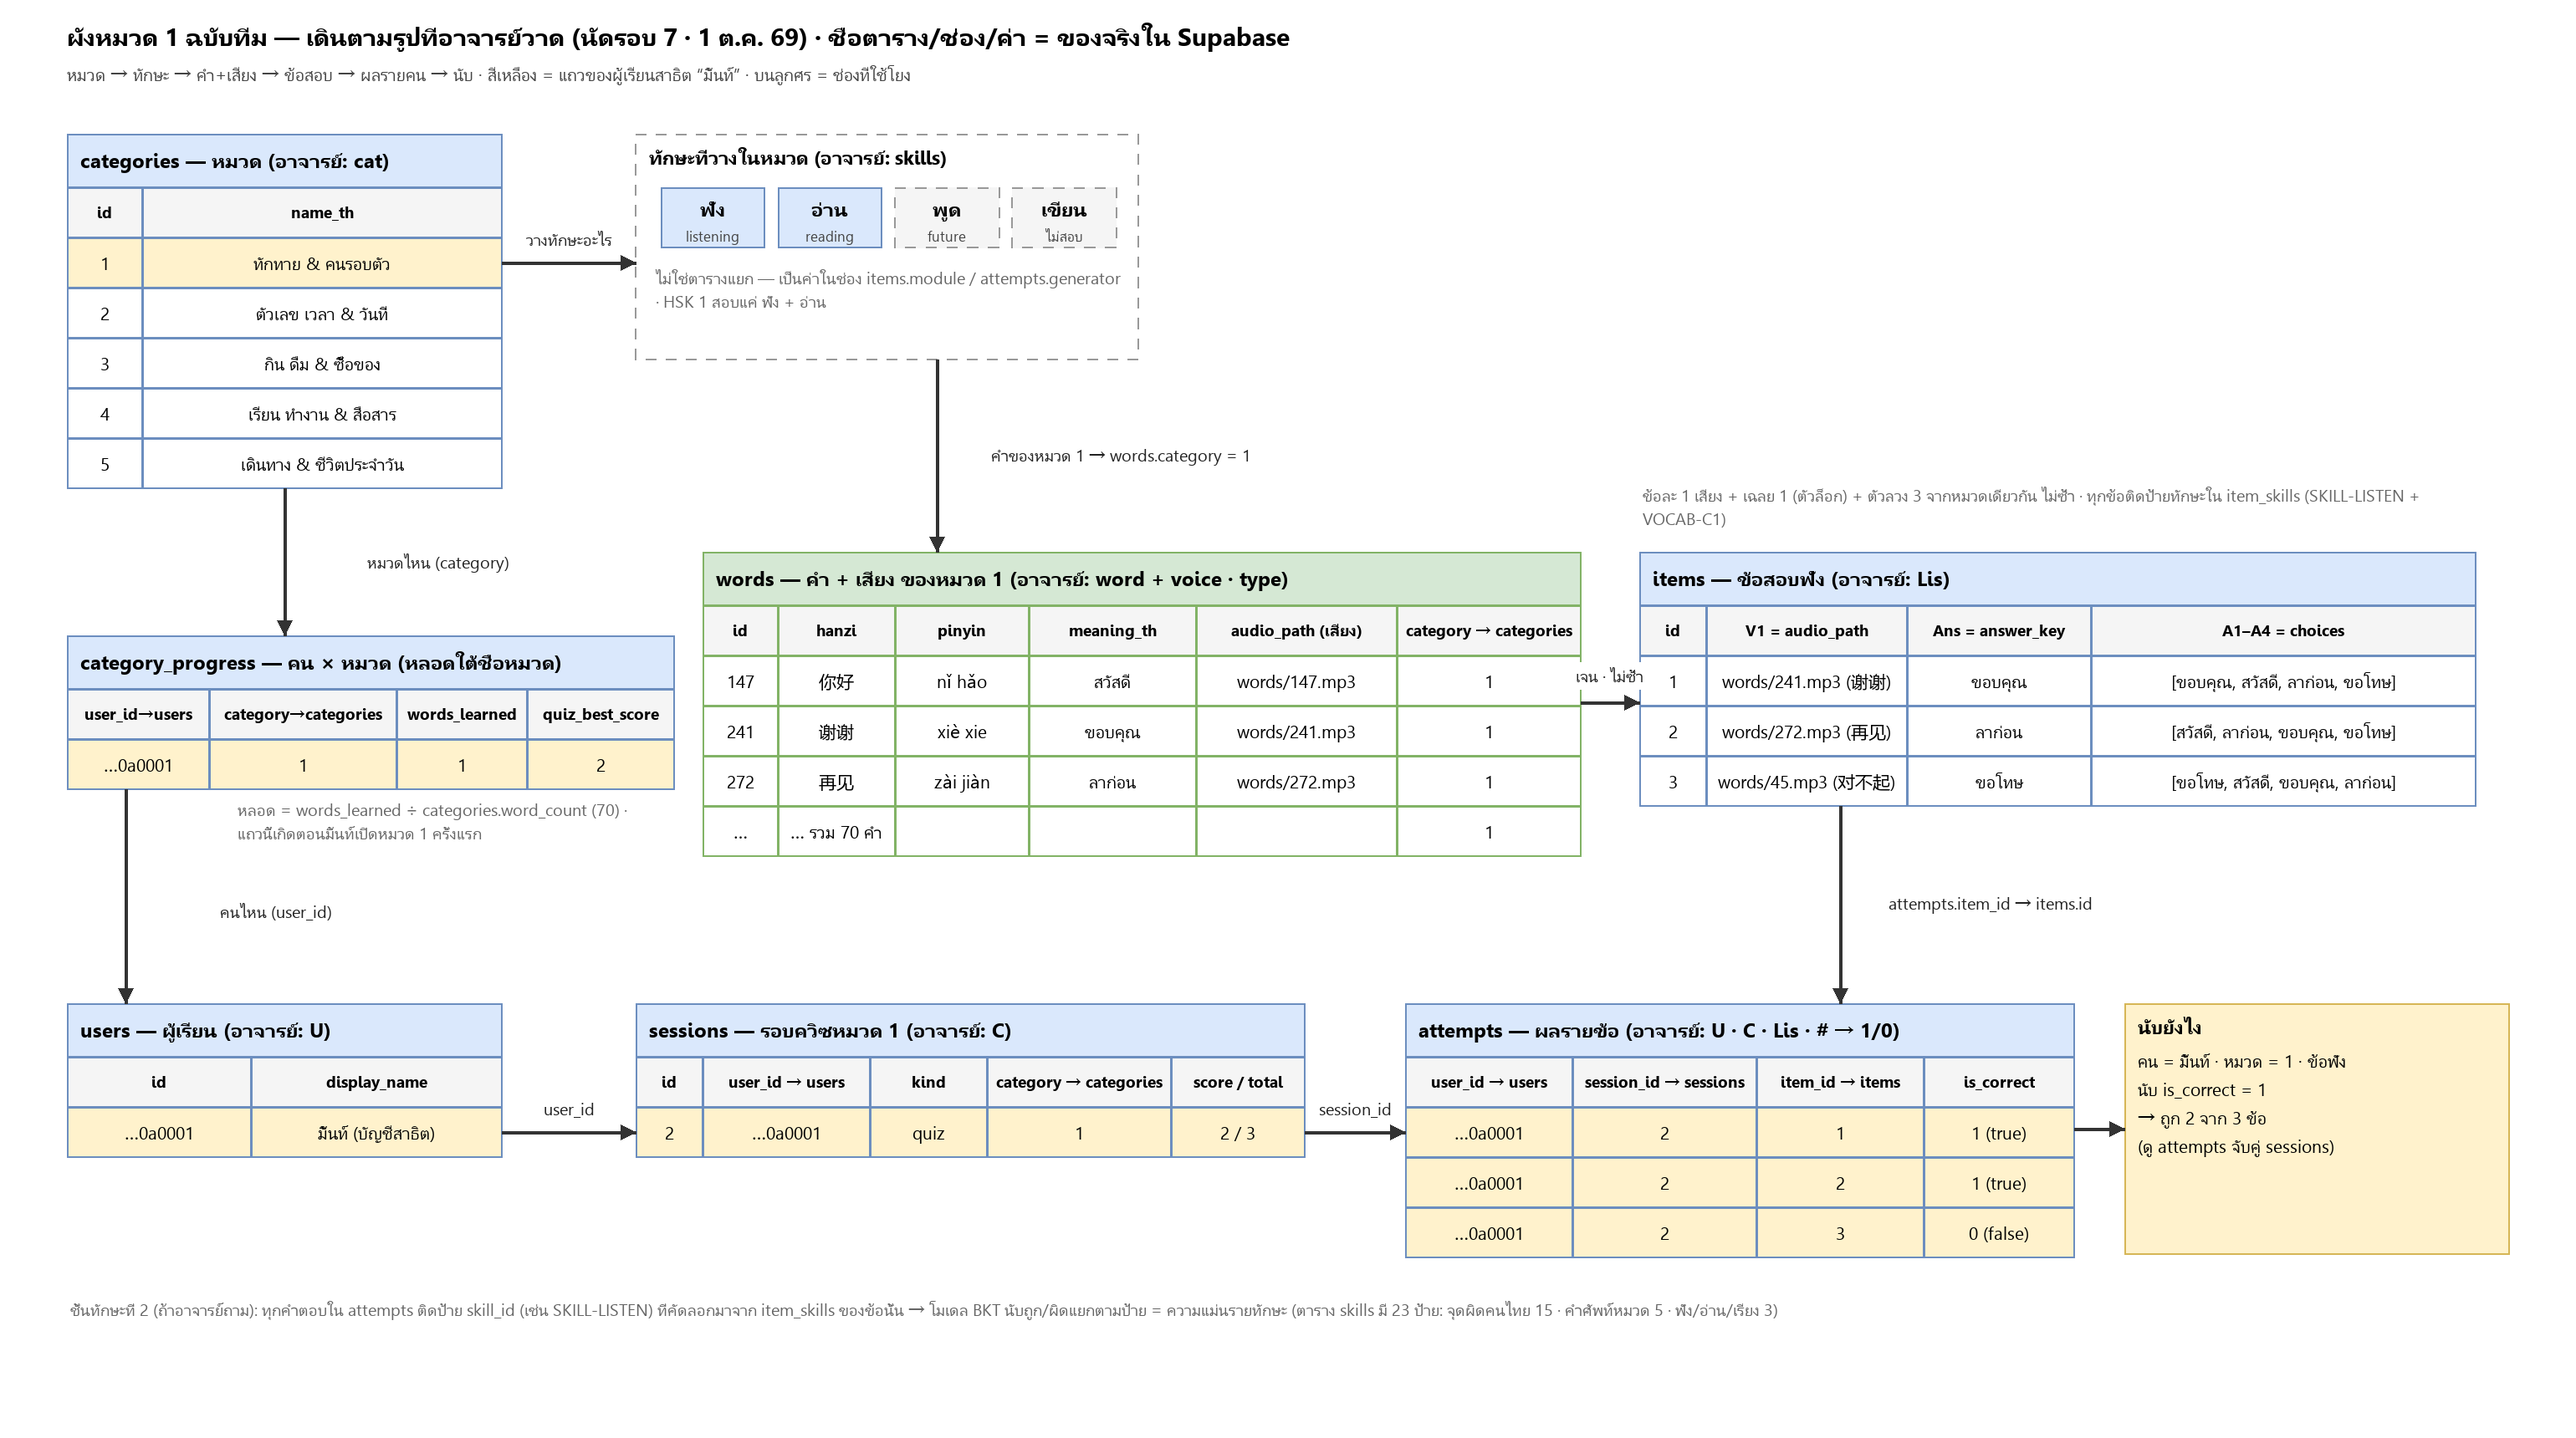
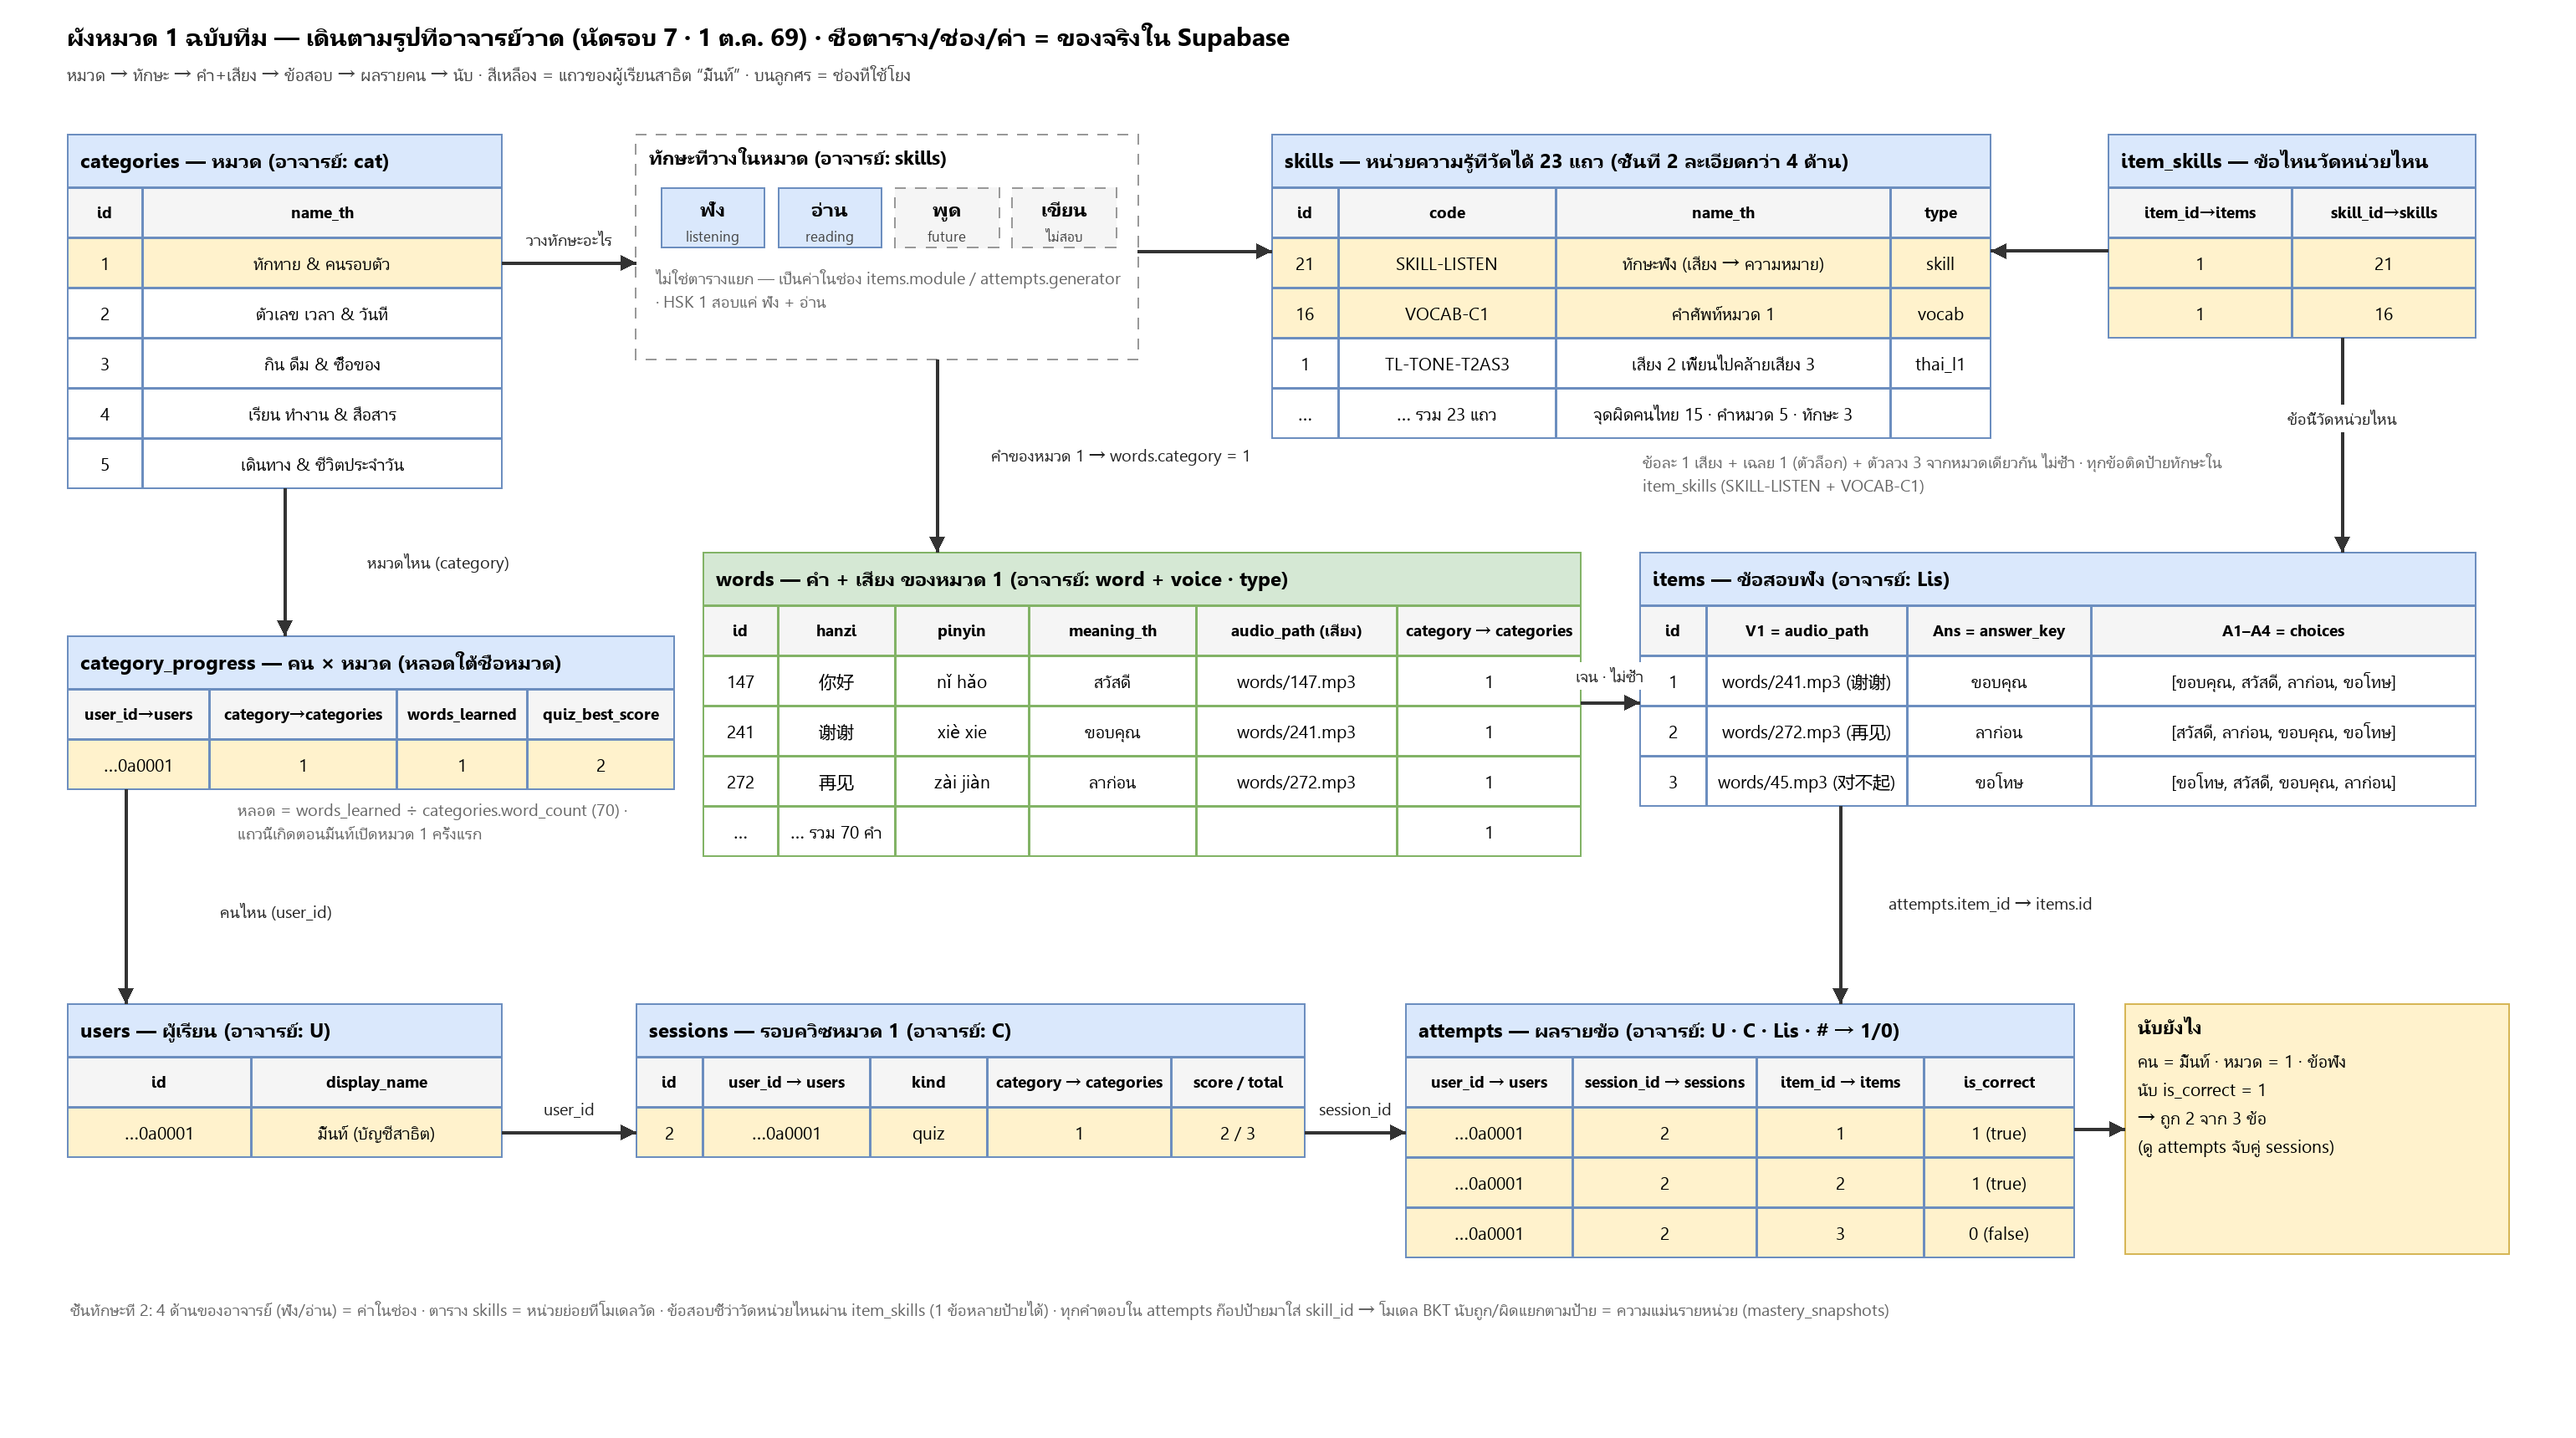
ผังหมวด 1 ตามรูปอาจารย์: เพิ่มชั้นทักษะที่ 2 (skills 23 + item_skills) ข้างกล่อง 4 ด้าน พร้อมลูกศรไป items · vault ซ้อมป้าย 2

diff --git a/scripts/gen_cat1_sketch.py b/scripts/gen_cat1_sketch.py
@@ -36,6 +36,16 @@ box("m_read",   465, 112, 62, 36, ["อ่าน", "reading"], fill=BLUE[0], str
 box("m_speak",  535, 112, 62, 36, ["พูด", "future"], fill=GREY, dashed=True)
 box("m_write",  605, 112, 62, 36, ["เขียน", "ไม่สอบ"], fill=GREY, dashed=True)
 note("skills_note", 390, 158, 282, 52, "ไม่ใช่ตารางแยก — เป็นค่าในช่อง items.module / attempts.generator · HSK 1 สอบแค่ ฟัง + อ่าน")
+# ---------- ชั้นทักษะที่ 2 (16 ต.ค.): skills = รายชื่อหน่วยที่วัดได้ 23 ตัว · item_skills = ข้อไหนวัดหน่วยไหน ----------
+table("skills_tbl", 760, 80, "skills — หน่วยความรู้ที่วัดได้ 23 แถว (ชั้นที่ 2 ละเอียดกว่า 4 ด้าน)",
+      [("id", 40), ("code", 130), ("name_th", 200), ("type", 60)],
+      [[21, "SKILL-LISTEN", "ทักษะฟัง (เสียง → ความหมาย)", "skill"], [16, "VOCAB-C1", "คำศัพท์หมวด 1", "vocab"],
+       [1, "TL-TONE-T2AS3", "เสียง 2 เพี้ยนไปคล้ายเสียง 3", "thai_l1"], ["…", "… รวม 23 แถว", "จุดผิดคนไทย 15 · คำหมวด 5 · ทักษะ 3", ""]], BLUE, hl=(0, 1))
+table("item_skills", 1260, 80, "item_skills — ข้อไหนวัดหน่วยไหน",
+      [("item_id→items", 110), ("skill_id→skills", 110)], [[1, 21], [1, 16]], BLUE, hl=(0, 1))
+edge("e_chips_skills", [(680, 150), (760, 150)], None, None)
+edge("e_is_skills", [(1260, 150), (1190, 150)], None, None)
+edge("e_is_items", [(1400, 202), (1400, 330)], "ข้อนี้วัดหน่วยไหน", (1400, 250))
 
 # ---------- ② คำ + เสียง → ข้อสอบ ----------
 table("words", 420, 330, "words — คำ + เสียง ของหมวด 1 (อาจารย์: word + voice · type)",
@@ -47,7 +57,7 @@ table("items", 980, 330, "items — ข้อสอบฟัง (อาจาร
       [[1, "words/241.mp3 (谢谢)", "ขอบคุณ", "[ขอบคุณ, สวัสดี, ลาก่อน, ขอโทษ]"],
        [2, "words/272.mp3 (再见)", "ลาก่อน", "[สวัสดี, ลาก่อน, ขอบคุณ, ขอโทษ]"],
        [3, "words/45.mp3 (对不起)", "ขอโทษ", "[ขอโทษ, สวัสดี, ขอบคุณ, ลาก่อน]"]], BLUE)
-note("items_note", 980, 288, 500, 36, "ข้อละ 1 เสียง + เฉลย 1 (ตัวล็อก) + ตัวลวง 3 จากหมวดเดียวกัน ไม่ซ้ำ · ทุกข้อติดป้ายทักษะใน item_skills (SKILL-LISTEN + VOCAB-C1)")
+note("items_note", 980, 268, 370, 50, "ข้อละ 1 เสียง + เฉลย 1 (ตัวล็อก) + ตัวลวง 3 จากหมวดเดียวกัน ไม่ซ้ำ · ทุกข้อติดป้ายทักษะใน item_skills (SKILL-LISTEN + VOCAB-C1)")
 
 # ---------- ③ คน → รอบ → ผล → นับ ----------
 table("users", 40, 600, "users — ผู้เรียน (อาจารย์: U)", [("id", 110), ("display_name", 150)],
@@ -64,7 +74,7 @@ box("count", 1270, 600, 230, 150, [
     "→ ถูก 2 จาก 3 ข้อ",
     "(ดู attempts จับคู่ sessions)",
 ], fill=YEL, stroke="#d6b656", title="นับยังไง")
-note("skill_note", 40, 775, 1460, 30, "ชั้นทักษะที่ 2 (ถ้าอาจารย์ถาม): ทุกคำตอบใน attempts ติดป้าย skill_id (เช่น SKILL-LISTEN) ที่คัดลอกมาจาก item_skills ของข้อนั้น → โมเดล BKT นับถูก/ผิดแยกตามป้าย = ความแม่นรายทักษะ (ตาราง skills มี 23 ป้าย: จุดผิดคนไทย 15 · คำศัพท์หมวด 5 · ฟัง/อ่าน/เรียง 3)")
+note("skill_note", 40, 775, 1460, 30, "ชั้นทักษะที่ 2: 4 ด้านของอาจารย์ (ฟัง/อ่าน) = ค่าในช่อง · ตาราง skills = หน่วยย่อยที่โมเดลวัด · ข้อสอบชี้ว่าวัดหน่วยไหนผ่าน item_skills (1 ข้อหลายป้ายได้) · ทุกคำตอบใน attempts ก๊อปป้ายมาใส่ skill_id → โมเดล BKT นับถูก/ผิดแยกตามป้าย = ความแม่นรายหน่วย (mastery_snapshots)")
 
 # ---------- ลูกศร ----------
 edge("e_cat_skills", [(300, 157), (380, 157)], "วางทักษะอะไร", (340, 143))

diff --git a/docs/07_คลังความรู้-Obsidian/90-บันทึกงาน/2026-10-16.md b/docs/07_คลังความรู้-Obsidian/90-บันทึกงาน/2026-10-16.md
@@ -16,3 +16,5 @@ updated: 2026-10-16
 - **ป้าย ① ซ้อมแล้ว:** บอลตอบ categories ถูก แต่ (ก) เรียก category_progress ว่า "คนกับคำ" → แก้เป็น **คน × หมวด** (ข) ถามเลข 22/70 มาจากช่องไหน บอลตอบ words → เฉลย 70 = categories.word_count · 22 = category_progress.words_learned · หลอด = 2 ตาราง (ค) จอ 22 แต่ตารางมิ้นท์ 1 = แอปยังนับในเครื่อง (ยังไม่มีล็อกอิน) ต้องพูดตรง ๆ
 - **แก้รูป:** ผังหมวด1-ตามรูปอาจารย์ เพิ่มกล่อง `category_progress` (คน × หมวด · แถวมิ้นท์ · หมายเหตุ "หลอด = words_learned ÷ word_count") ใต้ categories + ลูกศร "หมวดไหน (category)" / "คนไหน (user_id)" → ป้าย ① ชี้จบในแผ่นเดียว · สคริปต์ย้ายเข้า repo `scripts/gen_cat1_sketch.py`
 - ค้างซ้อม: ป้าย ② ทักษะ 4 ด้าน ≠ ตาราง skills 23 (ชั้นที่ 2) · ป้าย ③–⑤
+- **ป้าย ② สอนแล้ว (บอลขอ "ไม่ต้องจำ ต้องเข้าใจ"):** 4 ด้านของอาจารย์ = ค่าในช่อง (items.module · attempts.generator) ไม่ใช่ตาราง · skills 23 = ชั้นที่ 2 (จุดผิดคนไทย 15 · คำหมวด 5 · SKILL-LISTEN/READ/ORDER 3 = จุดที่ 2 ชั้นมาเจอกัน) · item_skills แยกจาก items เพราะ 1 ข้อหลายป้าย · บอลสรุปเองถูก: "skills = หน่วยที่วัดได้จริง ใช้กับโมเดลและกับข้อสอบ" · เลข 16/21 ใน item_skills = id ของ skills (VOCAB-C1 / SKILL-LISTEN)
+- บอลถาม "ทำไมไม่เอา skills แทนกล่องเส้นประ" → ไม่แทน แต่วางคู่ (คนละชั้น) → **แก้รูปรอบ 2:** เพิ่มกล่อง `skills` (3 แถวตัวอย่าง + แถวรวม) และ `item_skills` (ข้อ 1 → 21, 16) ข้างกล่อง 4 ด้าน + ลูกศร กล่อง 4 ด้าน → skills · item_skills → skills · item_skills → items "ข้อนี้วัดหน่วยไหน" · เชิงอรรถล่างเขียนวิธีอ่านสาย skills → item_skills → attempts.skill_id → mastery_snapshots · (บั๊กที่เจอ: table id ซ้ำกับ box id "skills" → ใช้ skills_tbl)
